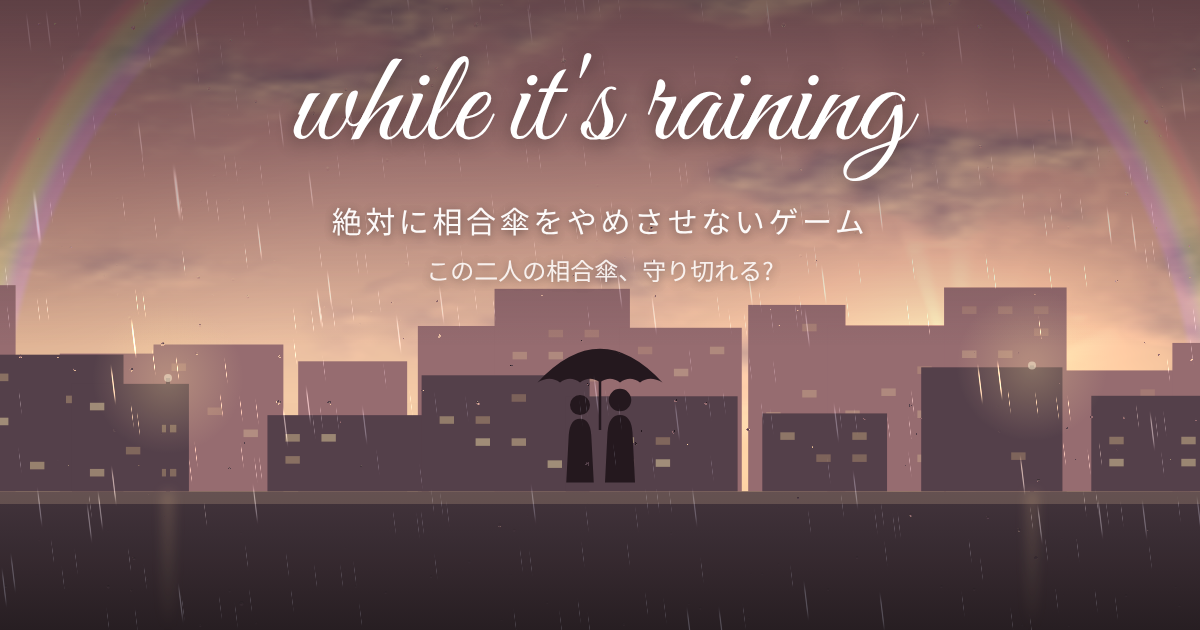
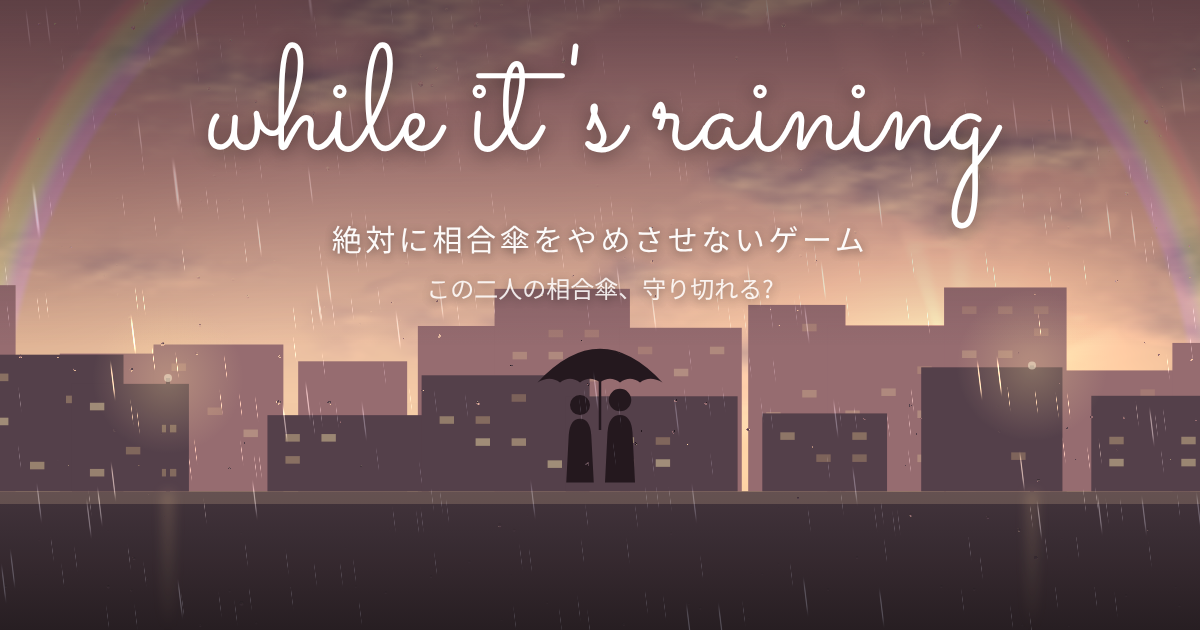
feat: title font Sacramento (readable r), spacing; OG image
Claude-Session: https://claude.ai/code/session_01U8PzaTVqiPfvMPiR4FU5Wq

Changed region(s): [[0.1542, 0.0603, 0.8325, 0.3619], [0.2775, 0.3317, 0.74, 0.4825]]

diff --git a/src/shareCard.js b/src/shareCard.js
@@ -77,7 +77,7 @@ export function renderShareCard(canvas, story, { url }) {
   const c = canvas.getContext('2d');
   const measureFor = (size) => { c.font = `${size}px ${FONT}`; return (s) => c.measureText(s).width; };
   const lay = layoutChat(teaserLines(story).map((l) => ({ who: l.who, text: String(l.text).replace(/\n/g, '') })),
-    { width: W, top: 400, bottom: 1240, measureFor });
+    { width: W, top: 410, bottom: 1240, measureFor });
 
   // 雨の空(結末を匂わせる夕焼けや虹は出さない)
   const g = c.createLinearGradient(0, 0, 0, H);
@@ -102,10 +102,10 @@ export function renderShareCard(canvas, story, { url }) {
   // タイトル
   c.textAlign = 'center'; c.textBaseline = 'alphabetic'; c.fillStyle = '#f4f1ea';
   c.shadowColor = 'rgba(0,0,0,.35)'; c.shadowBlur = 16;
-  c.font = `112px ${SCRIPT}`; c.fillText(TITLE, W / 2, 175);
+  c.font = `130px ${SCRIPT}`; c.fillText(TITLE, W / 2, 178);
   c.shadowBlur = 0;
-  c.font = `30px ${FONT}`; c.globalAlpha = 0.8; c.fillText(SUBTITLE, W / 2, 232);
-  c.font = `38px ${FONT}`; c.globalAlpha = 0.9; c.fillText(`― ${story.title} ―`, W / 2, 300); c.globalAlpha = 1;
+  c.font = `30px ${FONT}`; c.globalAlpha = 0.8; c.fillText(SUBTITLE, W / 2, 262);
+  c.font = `38px ${FONT}`; c.globalAlpha = 0.9; c.fillText(`― ${story.title} ―`, W / 2, 325); c.globalAlpha = 1;
 
   // 吹き出し
   for (const b of lay.bubbles) {

diff --git a/src/opening.js b/src/opening.js
@@ -279,7 +279,7 @@ export function createOpening(canvas, onDone, { force } = {}) {
     c.setTransform(D, 0, 0, D, 0, 0);
     c.clearRect(0, 0, W, H);
     if (progress <= 0) return;
-    let size = Math.min(W, H) * 0.2;
+    let size = Math.min(W, H) * 0.24;
     c.font = `${size}px "Title Script", "Snell Roundhand", "Apple Chancery", cursive`;
     const m = c.measureText(TEXT).width;
     if (m > W * 0.86) { size *= W * 0.86 / m; c.font = c.font.replace(/[\d.]+px/, `${size}px`); }
@@ -288,7 +288,7 @@ export function createOpening(canvas, onDone, { force } = {}) {
     c.beginPath(); c.rect(x0 - 10, 0, (tw + 20) * progress, H); c.clip();
     c.filter = 'blur(1.2px)';
     c.fillStyle = c.strokeStyle = '#fff';
-    c.lineWidth = size * 0.03; c.lineJoin = c.lineCap = 'round';
+    c.lineWidth = size * 0.045; // 細い書体でも指でなぞった跡が見えるように c.lineJoin = c.lineCap = 'round';
     c.strokeText(TEXT, x0, y0); c.fillText(TEXT, x0, y0);
     c.restore();
   }

diff --git a/index.html b/index.html
@@ -19,7 +19,7 @@
 <meta name="twitter:title" content="while it's raining">
 <meta name="twitter:description" content="この二人の相合傘、守り切れる? #相合傘をやめさせない">
 <meta name="twitter:image" content="https://nagashinocat.github.io/aiaigasa/og.png">
-<link rel="preload" href="fonts/great-vibes.woff2" as="font" type="font/woff2" crossorigin>
+<link rel="preload" href="fonts/sacramento.woff2" as="font" type="font/woff2" crossorigin>
 <link rel="stylesheet" href="style.css">
 </head>
 <body>

diff --git a/style.css b/style.css
@@ -1,5 +1,5 @@
-/* タイトル用の筆記体(Great Vibes, SIL OFL 1.1) */
-@font-face { font-family: "Title Script"; src: url("fonts/great-vibes.woff2") format("woff2"); font-display: swap; }
+/* タイトル用の筆記体(Sacramento, SIL OFL 1.1) */
+@font-face { font-family: "Title Script"; src: url("fonts/sacramento.woff2") format("woff2"); font-display: swap; }
 * { box-sizing: border-box; margin: 0; }
 html, body { height: 100%; background: #10141b; overflow: hidden; }
 body {
